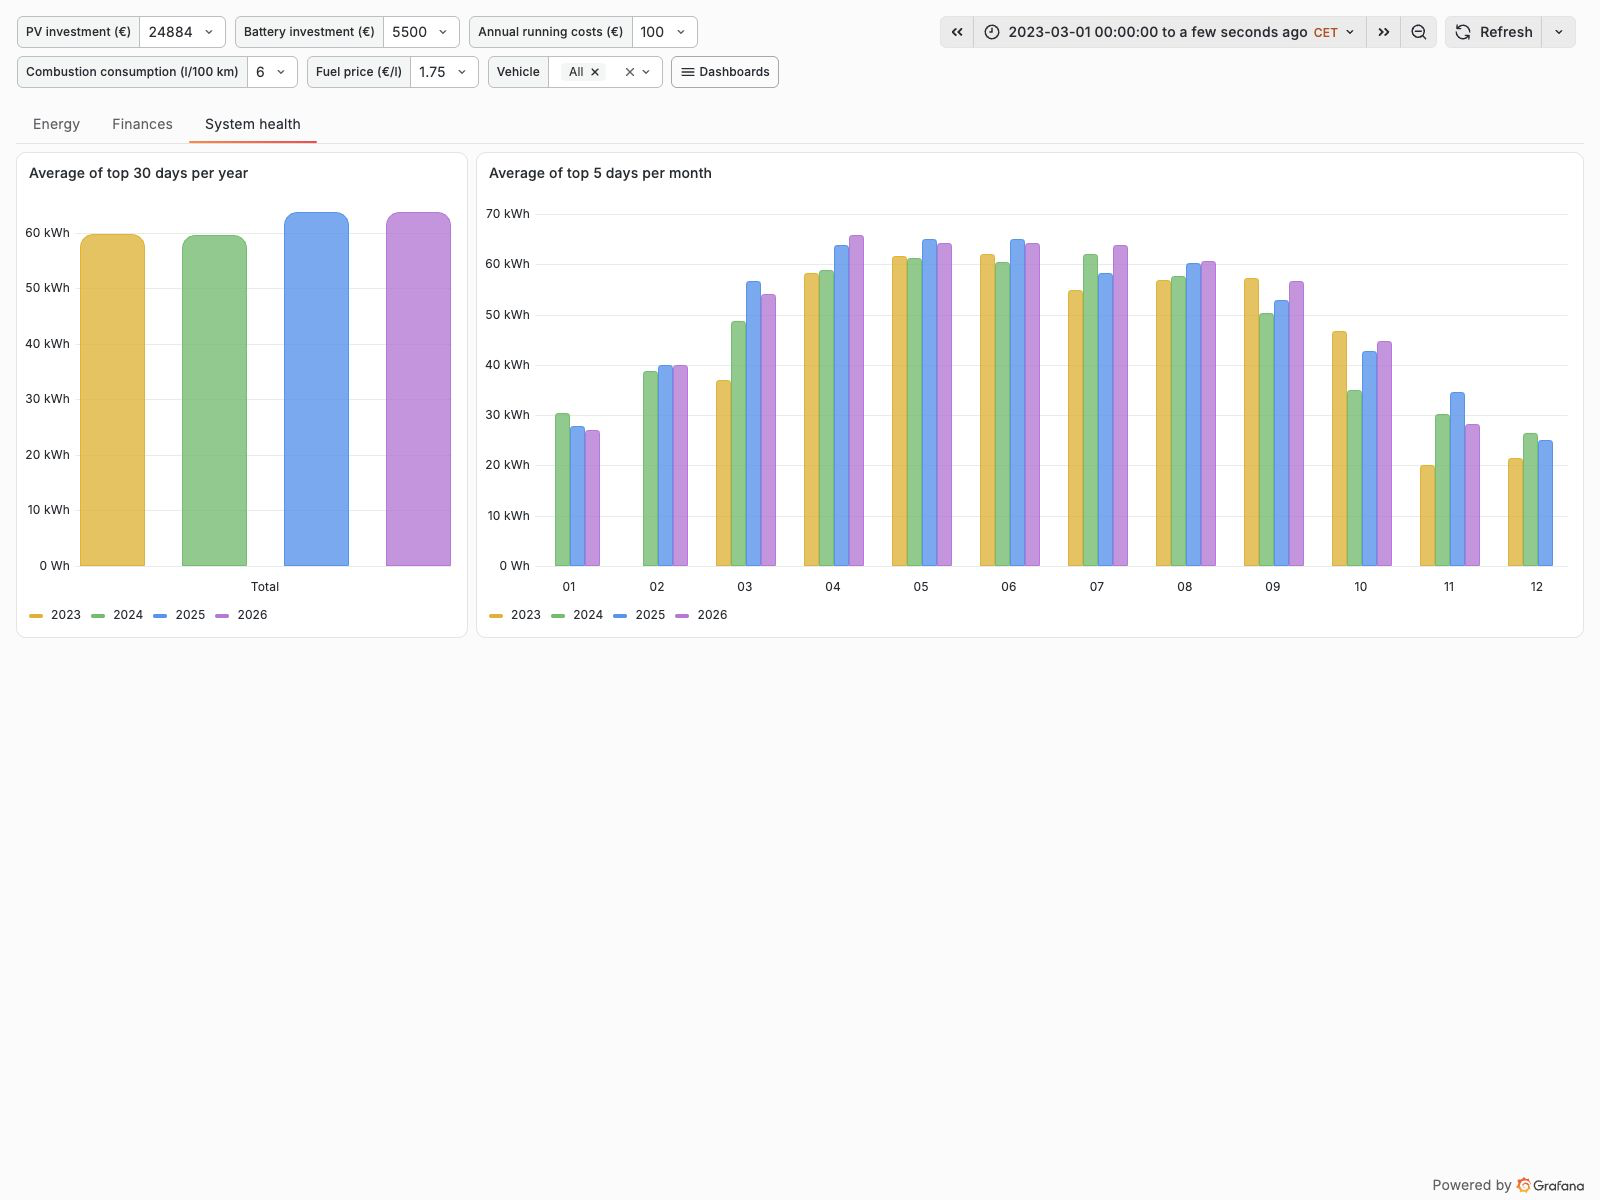
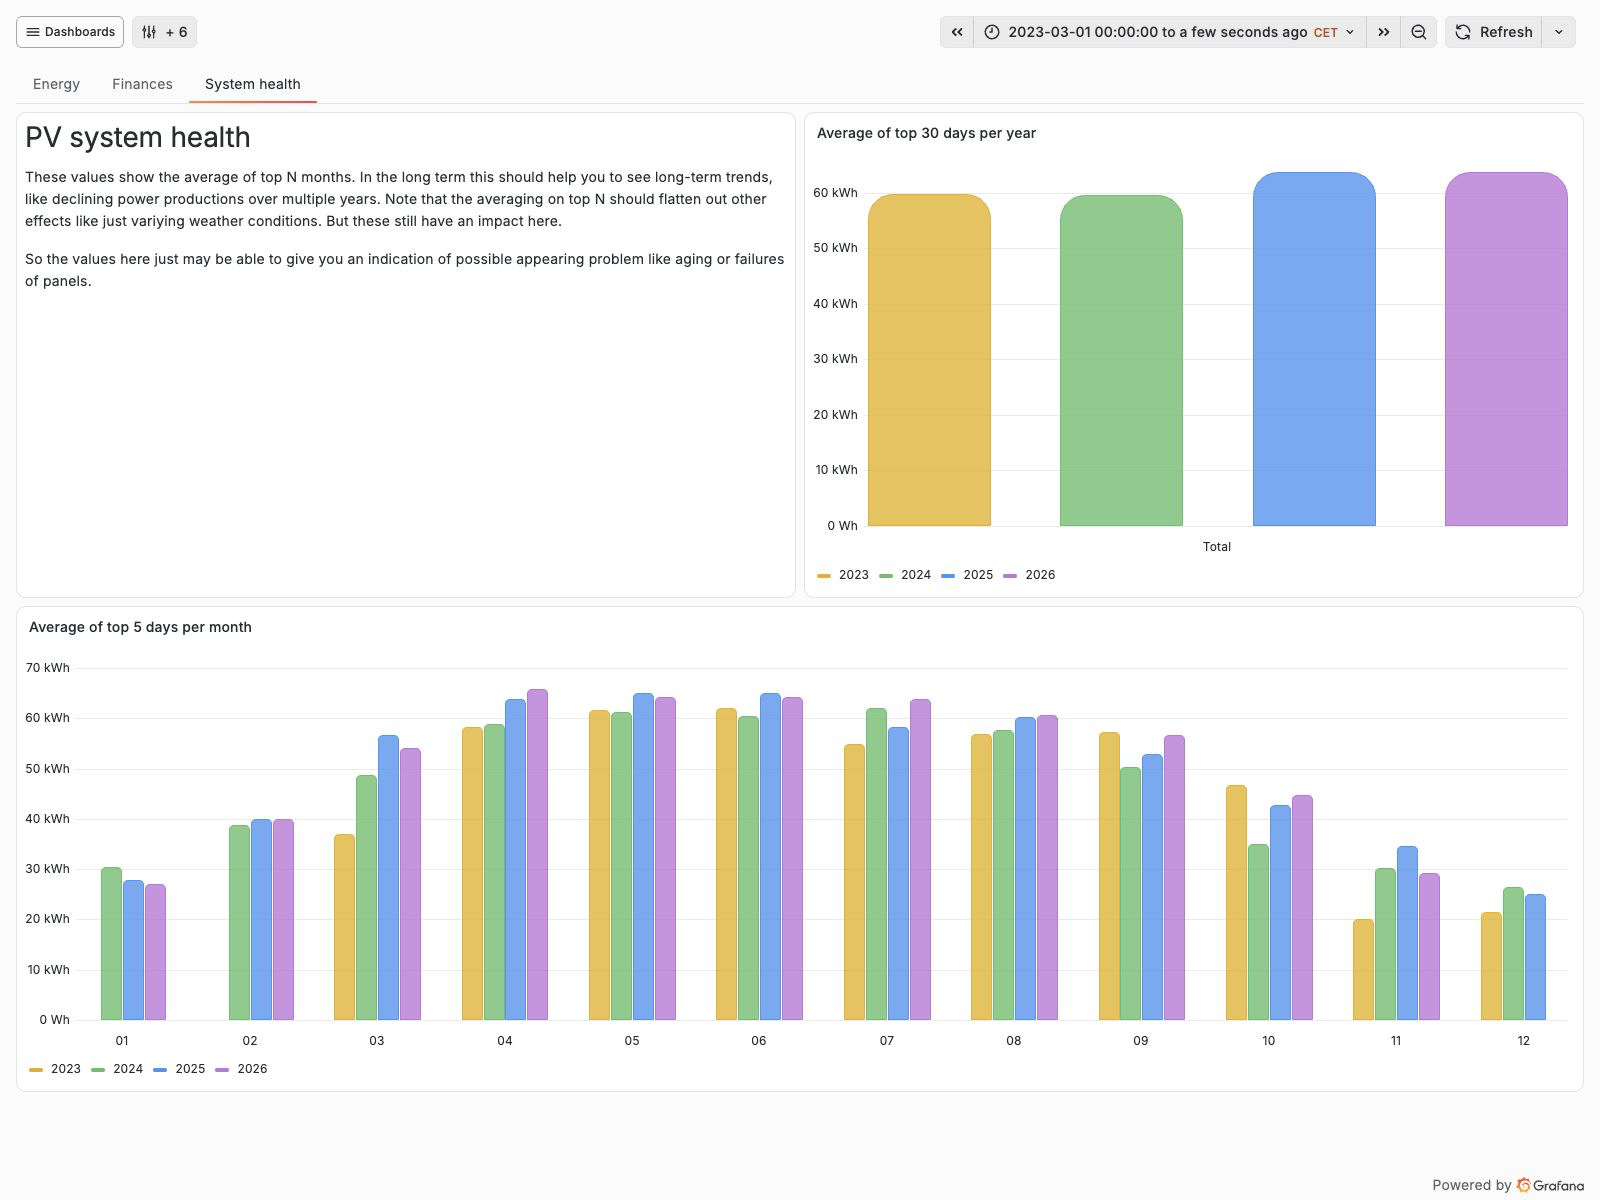
Fix #265: Clean up of top dashboard buttons
Closes #265

diff --git a/dashboards.md b/dashboards.md
@@ -4,13 +4,19 @@
 
 ### Energy
 
+Long-term energy totals, annual and monthly PV yield, home consumption, autonomy, and battery performance since March 2023.
+
 ![EVCC: All-time — Energy](img/screenshots/evcc-all-time-energy.png)
 
 ### Finances
 
+Monthly electricity costs, cumulative electricity balance, PV and battery payback, and vehicle driving costs over the saved all-time period.
+
 ![EVCC: All-time — Finances](img/screenshots/evcc-all-time-finances.png)
 
 ### System health
+
+Yearly averages of the 30 highest-yield days and monthly averages of the five highest-yield days compare PV performance across years.
 
 ![EVCC: All-time — System health](img/screenshots/evcc-all-time-system-health.png)
 
@@ -18,21 +24,31 @@
 
 ### PV
 
+Energy totals and daily flows for the current calendar month, alongside autonomy, self-sufficiency, green share, and specific PV yield.
+
 ![EVCC: Month — PV](img/screenshots/evcc-month-pv.png)
 
 ### Home
+
+Household consumers and overall energy use for the current month, shown as distribution charts and daily stacked consumption bars.
 
 ![EVCC: Month — Home](img/screenshots/evcc-month-home.png)
 
 ### Costs
 
+Electricity purchase costs, feed-in revenue, dynamic tariff savings, and daily price and cost trends for the current month.
+
 ![EVCC: Month — Costs](img/screenshots/evcc-month-costs.png)
 
 ### Battery
 
+Battery charging and discharging totals, efficiency, average state-of-charge limits, and daily minimum and maximum charge levels for the current month.
+
 ![EVCC: Month — Battery](img/screenshots/evcc-month-battery.png)
 
 ## EVCC: Today
+
+Today’s real-time power flows, battery and vehicle charge levels, energy totals, and electricity costs in the desktop overview.
 
 ![EVCC: Today](img/screenshots/evcc-today.png)
 
@@ -40,25 +56,37 @@
 
 ### PV
 
+Today’s solar energy and power by array, battery charge and power, and comparisons of actual PV output with the forecast.
+
 ![EVCC: Today - Details — PV](img/screenshots/evcc-today-details-pv.png)
 
 ### Consumption
+
+Today’s household power and energy use by consumer, with distribution charts and hourly consumption profiles.
 
 ![EVCC: Today - Details — Consumption](img/screenshots/evcc-today-details-consumption.png)
 
 ### Tarifs
 
+Today’s tariff prices, grid purchase and feed-in costs, and CO₂ intensity, with time-series comparisons against grid consumption.
+
 ![EVCC: Today - Details — Tarifs](img/screenshots/evcc-today-details-tarifs.png)
 
 ### Grid
+
+Grid current and power on each phase, with real-time summary values and today’s current and power profiles.
 
 ![EVCC: Today - Details — Grid](img/screenshots/evcc-today-details-grid.png)
 
 ### Loadpoints
 
+Today’s charging currents, active phases, and charging power for the Garage loadpoint, with the beginning of the Stellplatz section below.
+
 ![EVCC: Today - Details — Loadpoints](img/screenshots/evcc-today-details-loadpoints.png)
 
 ## EVCC: Today - Mobile
+
+Today’s real-time power gauges and daily power-flow chart in the mobile layout, followed by battery and vehicle charge levels.
 
 ![EVCC: Today - Mobile](img/screenshots/evcc-today-mobile.png)
 
@@ -66,16 +94,24 @@
 
 ### PV
 
+Energy totals, monthly energy flows, autonomy, self-consumption, and daily production for the current calendar year.
+
 ![EVCC: Year — PV](img/screenshots/evcc-year-pv.png)
 
 ### Home
+
+Household and total energy distribution and monthly consumption for the current year, with electricity cost and price panels beginning below.
 
 ![EVCC: Year — Home](img/screenshots/evcc-year-home.png)
 
 ### Battery
 
+Battery energy totals and efficiency for the current year, with charge-level heatmaps and monthly charging, discharging, and efficiency trends.
+
 ![EVCC: Year — Battery](img/screenshots/evcc-year-battery.png)
 
 ### Vehicles
+
+Vehicle odometers, annual distance and charging energy, and monthly distance, charging, and consumption comparisons for the current year.
 
 ![EVCC: Year — Vehicles](img/screenshots/evcc-year-vehicles.png)
